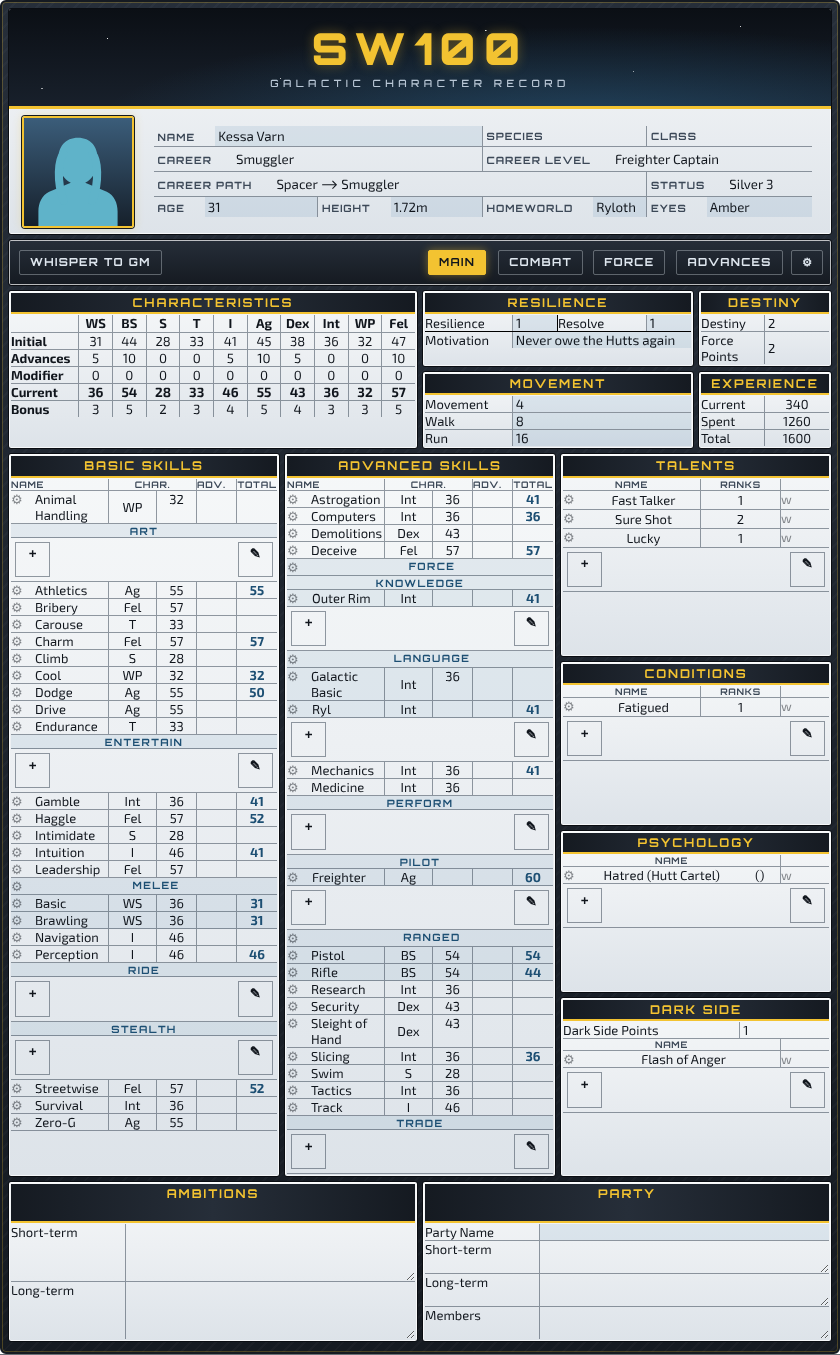
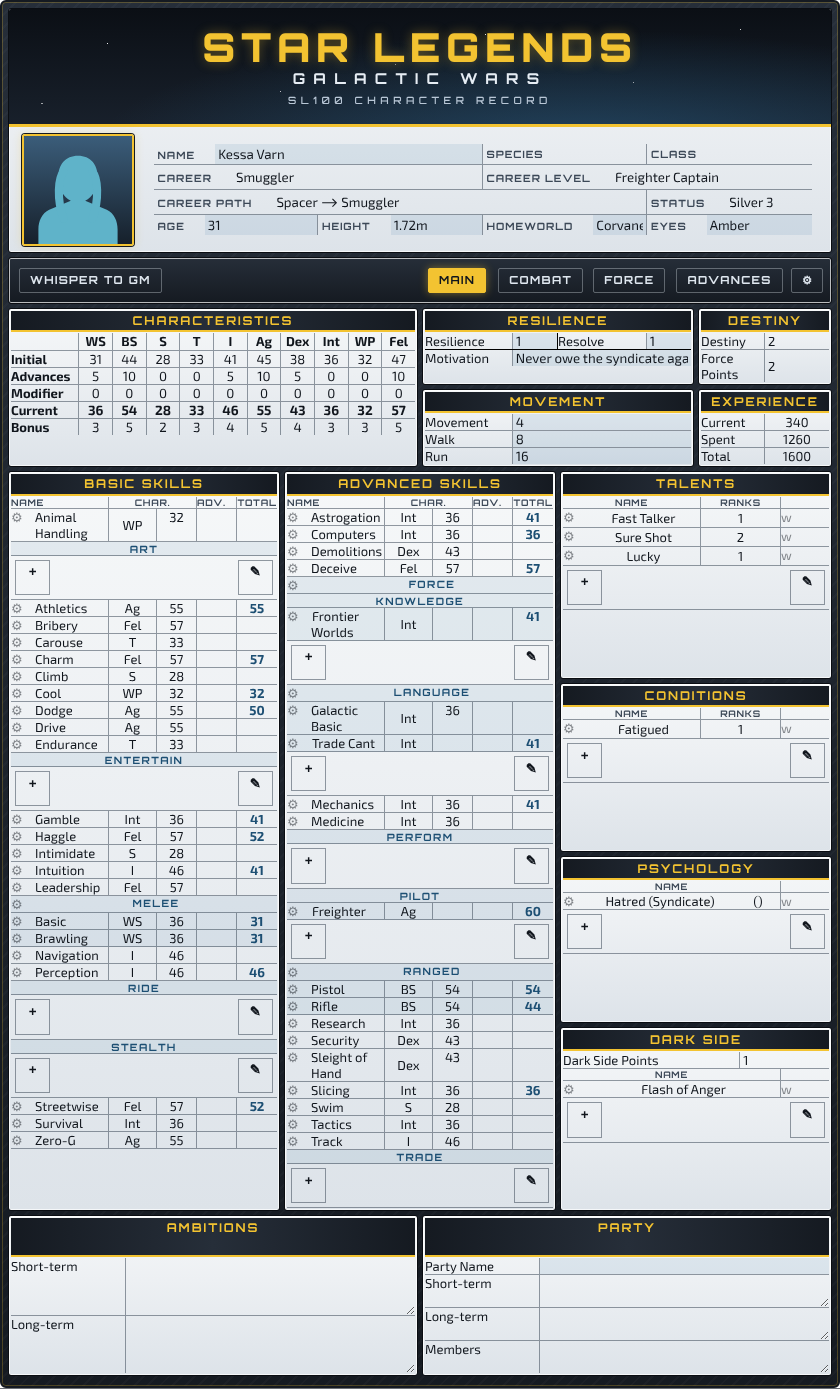
Rebrand to Star Legends - Galactic Wars (SL100)
- Header shows the long-form name: STAR LEGENDS / GALACTIC WARS, with an
  'SL100 Character Record' line. Header height raised to fit.
- Rename build outputs and entry points: sl100.html, sl100.css,
  src/pug/sl100.pug, src/scss/sl100.scss. Update sheet.json, package.json,
  scripts and README to match.
- New $font-family-title variable so the title face can change without
  touching the rest of the theme.
- Remove franchise references from the README, sheet.json and the
  preview sample data.
- Internal sw- class names, the sw roll template and attribute names are
  unchanged, so existing characters keep their data.

Claude-Session: https://claude.ai/code/session_01WgHnt61G6yq3dpjTGP8bZF

Changed region(s): [[0.0, 0.0, 0.9905, 0.9919], [0.9595, 0.9609, 0.9905, 0.9919]]

diff --git a/scripts/preview.js b/scripts/preview.js
@@ -26,10 +26,10 @@ const root = path.join(__dirname, "..");
 const read = (file) => fs.readFileSync(path.join(root, file), "utf8");
 
 const sample = {
-    character_name: "Kessa Varn", species: "Twi'lek", class: "Scoundrel", career: "Smuggler",
+    character_name: "Kessa Varn", species: "Human", class: "Scoundrel", career: "Smuggler",
     career_level: "Freighter Captain", career_path: "Spacer ⟶ Smuggler", status: "Silver 3",
-    age: "31", height: "1.72m", homeworld: "Ryloth", eyes: "Amber",
-    fate: 2, fortune: 2, resilience: 1, resolve: 1, motivation: "Never owe the Hutts again",
+    age: "31", height: "1.72m", homeworld: "Corvane Prime", eyes: "Amber",
+    fate: 2, fortune: 2, resilience: 1, resolve: 1, motivation: "Never owe the syndicate again",
     movement: 4, walk: 8, run: 16, current_xp: 340, spent_xp: 1260, total_xp: 1600,
     wounds: 11, wounds_max: 13, advantage: 2, encumbrance: 6, encumbrance_max: 7,
     credits: 2450, bank: 800, debt: 12000, corruption_points: 1, sin: 0,
@@ -61,7 +61,7 @@ for (const [char, [initial, adv]] of Object.entries(chars)) {
 const rows = {
     talent: [{ talent_name: "Fast Talker", talent_ranks: 1 }, { talent_name: "Sure Shot", talent_ranks: 2 }, { talent_name: "Lucky", talent_ranks: 1 }],
     conditions: [{ condition_name: "Fatigued", condition_ranks: 1 }],
-    psychology: [{ psychology_name: "Hatred (Hutt Cartel)" }],
+    psychology: [{ psychology_name: "Hatred (Syndicate)" }],
     corruption: [{ corruption_name: "Flash of Anger" }],
     trappings: [
         { trappings_name: "Comlink", trappings_amount: 1, trappings_enc: 0 },
@@ -70,18 +70,18 @@ const rows = {
     ],
     armour: [{ armour_name: "Padded Flight Suit", armour_locations_display: "Arms, Body, Legs", armour_points: 1, armour_qualities: "Flexible" }],
     weapons: [
-        { weapon_name: "DL-44 Heavy Blaster Pistol", weapon_group: "Pistol", weapon_target_display: 54, weapon_range: "30", weapon_damage_flat: "+6", weapon_qualities: "Stun, Penetrating" },
+        { weapon_name: "Heavy Blaster Pistol", weapon_group: "Pistol", weapon_target_display: 54, weapon_range: "30", weapon_damage_flat: "+6", weapon_qualities: "Stun, Penetrating" },
         { weapon_name: "Vibroknife", weapon_group: "Vibroweapon", weapon_target_display: 36, weapon_range: "Very Short", weapon_damage_flat: "+3", weapon_qualities: "Fast" },
     ],
     criticals: [{ critical_name: "Blaster Burn", critical_location: "Left Arm", critical_wounds: 3 }],
     spells: [{ spell_name: "Sense Danger", spell_lore: "Universal", spell_display: 37, spell_cn: 3, spell_range: "Self", spell_target: "Self", spell_duration: "1 hour" }],
     careers: [{ career_name: "Smuggler", career_level: "Freighter Captain", career_status: "Silver 3" }],
-    experience: [{ experience_desc: "Escaped the Imperial blockade", experience_amount: 150 }],
+    experience: [{ experience_desc: "Escaped the orbital blockade", experience_amount: 150 }],
     experiencespent: [{ experience_desc: "Ranged (Pistol) +5", experience_amount: 50 }],
-    knowledge: [{ specialisation_name: "Outer Rim", specialisation: 41 }],
+    knowledge: [{ specialisation_name: "Frontier Worlds", specialisation: 41 }],
     pilot: [{ specialisation_name: "Freighter", specialisation: 60 }],
-    language: [{ specialisation_name: "Ryl", specialisation: 41 }],
-    attacks: [{ attack_name: "E-11 Blaster Rifle", attack_attacks: 1, attack_target: 40, attack_range: "100", attack_damage: "+7" }],
+    language: [{ specialisation_name: "Trade Cant", specialisation: 41 }],
+    attacks: [{ attack_name: "Blaster Rifle", attack_attacks: 1, attack_target: 40, attack_range: "100", attack_damage: "+7" }],
     "npc-traits": [{ trait_name: "Armour 3" }],
 };
 
@@ -133,8 +133,8 @@ const renderTemplate = (template, values) => {
 
 const buildPage = (state) => {
     const translation = JSON.parse(read("translation.json"));
-    let html = read("sw100.html");
-    const css = read("sw100.css");
+    let html = read("sl100.html");
+    const css = read("sl100.css");
 
     // Strip sheet workers and roll templates; they are not rendered in the sheet body.
     html = html.replace(/<script type="text\/worker">[\s\S]*?<\/script>/, "");
@@ -253,7 +253,7 @@ const main = async () => {
         const page = await browser.newPage({ viewport: { width: 900, height: 1200 }, deviceScaleFactor: 1 });
         page.on("pageerror", error => console.error(`page error: ${error.message}`));
         // Loaded from a file (not setContent) so local art paths like "art/logo.png" resolve.
-        const pageFile = path.join(os.tmpdir(), `sw100-preview-${process.pid}.html`);
+        const pageFile = path.join(os.tmpdir(), `sl100-preview-${process.pid}.html`);
         fs.writeFileSync(pageFile, buildPage(state));
         await page.goto(pathToFileURL(pageFile).href, { waitUntil: "networkidle" }).catch(() => {});
         fs.unlinkSync(pageFile);

diff --git a/scripts/check.js b/scripts/check.js
@@ -1,4 +1,4 @@
-// Consistency checks for the SW100 sheet. Run after a build: `npm run check`.
+// Consistency checks for the SL100 sheet. Run after a build: `npm run check`.
 //
 // The skill lists live in three places (Pug data, sheetworkers, SCSS); Roll20
 // also needs a translation entry for every data-i18n key or the label renders
@@ -79,7 +79,7 @@ sameSet("specialisations (pug vs scss)", pugSpecialisations, scssList("specialis
 
 // Translations: every data-i18n key used in the HTML (and every key sheet.json
 // names for its user options) needs an entry.
-const html = read("sw100.html");
+const html = read("sl100.html");
 const translation = JSON.parse(read("translation.json"));
 const used = new Set();
 for (const match of html.matchAll(/data-i18n(?:-placeholder|-title)?="([^"]*)"/g)) {
@@ -107,24 +107,24 @@ if (unused.length) warnings.push(`translation.json has ${unused.length} unused k
     }
     const prefixedRepeating = body.match(/class="[^"]*sheet-repeating_/);
     if (prefixedRepeating) errors.push("a repeating_ fieldset class was given the sheet- prefix; Roll20 will not treat it as a repeating section");
-    if (bare.size) errors.push(`sw100.html has classes without the sheet- prefix (run npm run build): ${[...bare].slice(0, 10).join(", ")}`);
+    if (bare.size) errors.push(`sl100.html has classes without the sheet- prefix (run npm run build): ${[...bare].slice(0, 10).join(", ")}`);
 }
 
 // Roll20's CSS sanitizer can discard the whole stylesheet over unusual syntax
 // in url(); keep ';' and '@' out of them (e.g. Google Fonts css2 URLs).
 {
-    const css = read("sw100.css");
+    const css = read("sl100.css");
     for (const match of css.matchAll(/url\(\s*["']?([^"')]*)/g)) {
-        if (/[;@]/.test(match[1])) errors.push(`sw100.css has a url() containing ';' or '@', which Roll20 may reject: ${match[1]}`);
+        if (/[;@]/.test(match[1])) errors.push(`sl100.css has a url() containing ';' or '@', which Roll20 may reject: ${match[1]}`);
     }
     // Modern Sass colour maths emits rgb(12.3%, ...) / hsl(...); stick to hex and rgba(r, g, b, a).
     const modernColour = css.match(/rgba?\([^)]*%[^)]*\)|hsla?\([^)]*\)/);
-    if (modernColour) errors.push(`sw100.css has a percentage/hsl colour Roll20 may reject: ${modernColour[0]} (use a hex token in _abstracts.scss)`);
+    if (modernColour) errors.push(`sl100.css has a percentage/hsl colour Roll20 may reject: ${modernColour[0]} (use a hex token in _abstracts.scss)`);
 }
 
 // The WFRP artwork is Cubicle 7's; none of it should ship with this sheet.
-const css = read("sw100.css");
-for (const [name, text] of [["sw100.css", css], ["sw100.html", html]]) {
+const css = read("sl100.css");
+for (const [name, text] of [["sl100.css", css], ["sl100.html", html]]) {
     const hits = text.match(/files\.d20\.io\/images\/[^"')\s]*/g);
     if (hits) errors.push(`${name} still references Roll20-hosted images: ${[...new Set(hits)].join(", ")}`);
 }

diff --git a/sl100.html b/sl100.html
@@ -24,7 +24,7 @@
   <div class="sheet-sw-pc">
     <input name="attr_setting_button_hide" type="hidden"/>
     <div class="sheet-sw-header sheet-sw-panel">
-      <div class="sheet-sw-header__logo"><span class="sheet-sw-header__logo-title">SW100</span><span class="sheet-sw-header__logo-subtitle" data-i18n="Galactic Character Record">Galactic Character Record</span></div>
+      <div class="sheet-sw-header__logo"><span class="sheet-sw-header__logo-title" data-i18n="Star Legends">Star Legends</span><span class="sheet-sw-header__logo-tagline" data-i18n="Galactic Wars">Galactic Wars</span><span class="sheet-sw-header__logo-subtitle" data-i18n="SL100 Character Record">SL100 Character Record</span></div>
       <div class="sheet-sw-header__body">
         <div class="sheet-sw-header__portrait sheet-page__main"><span class="sheet-sw-header__portrait-empty" data-i18n="Set a portrait in Bio &amp; Info">Set a portrait in Bio &amp; Info</span><img class="sheet-sw-header__portrait-img" name="attr_character_avatar"/></div>
         <div class="sheet-sw-header__info">

diff --git a/sl100.css b/sl100.css
@@ -265,7 +265,7 @@ input[type=number]::-webkit-outer-spin-button, input[type=number]::-webkit-inner
 }
 
 .sheet-sw-header__logo {
-  height: 100px;
+  height: 118px;
 }
 .sheet-sw-header__body {
   display: flex;
@@ -1255,14 +1255,25 @@ button.sheet-pictos[type=action]:hover {
 .sheet-sw-header__logo-title {
   color: #f3c331;
   font-family: "Orbitron", "Exo 2", Arial, sans-serif;
-  font-size: 44px;
+  font-size: 40px;
   font-weight: 900;
-  letter-spacing: 0.18em;
+  letter-spacing: 0.14em;
   line-height: 1;
+  text-transform: uppercase;
   text-shadow: 0 0 12px rgba(243, 195, 49, 0.35);
 }
+.sheet-sw-header__logo-tagline {
+  margin-top: 4px;
+  color: #e6edf4;
+  font-family: "Orbitron", "Exo 2", Arial, sans-serif;
+  font-size: 15px;
+  font-weight: 700;
+  letter-spacing: 0.55em;
+  line-height: 1;
+  text-transform: uppercase;
+}
 .sheet-sw-header__logo-subtitle {
-  margin-top: 6px;
+  margin-top: 8px;
   color: #b9c7d6;
   font-family: "Orbitron", "Exo 2", Arial, sans-serif;
   font-size: 10px;

diff --git a/src/scss/styling/_header.scss b/src/scss/styling/_header.scss
@@ -15,16 +15,30 @@
     &__logo-title {
         color: $sw-accent;
 
-        font-family: $font-family-display;
-        font-size: 44px;
+        font-family: $font-family-title;
+        font-size: 40px;
         font-weight: 900;
-        letter-spacing: .18em;
+        letter-spacing: .14em;
         line-height: 1;
+        text-transform: uppercase;
         text-shadow: 0 0 12px rgba($sw-accent, .35);
     }
 
+    &__logo-tagline {
+        margin-top: 4px;
+
+        color: #e6edf4;
+
+        font-family: $font-family-title;
+        font-size: 15px;
+        font-weight: 700;
+        letter-spacing: .55em;
+        line-height: 1;
+        text-transform: uppercase;
+    }
+
     &__logo-subtitle {
-        margin-top: 6px;
+        margin-top: 8px;
 
         color: #b9c7d6;
 

diff --git a/scripts/postbuild.js b/scripts/postbuild.js
@@ -1,4 +1,4 @@
-// Post-processes the compiled sw100.html so it works under either Roll20
+// Post-processes the compiled sl100.html so it works under either Roll20
 // sanitizer:
 //
 // 1. Class prefixes. The CSS targets `.sheet-*` classes. Roll20's legacy
@@ -19,7 +19,7 @@ const fs = require("fs");
 const path = require("path");
 
 const root = path.join(__dirname, "..");
-const htmlPath = path.join(root, "sw100.html");
+const htmlPath = path.join(root, "sl100.html");
 const translation = JSON.parse(fs.readFileSync(path.join(root, "translation.json"), "utf8"));
 
 const escapeHtml = (text) => text.replace(/&/g, "&amp;").replace(/</g, "&lt;").replace(/>/g, "&gt;");

diff --git a/src/scss/_fonts.scss b/src/scss/_fonts.scss
@@ -9,6 +9,9 @@ $font-alt-medium: 12px;
 $font-family-general: "Exo 2", "Segoe UI", Arial, sans-serif;
 $font-family-alt: "Exo 2", "Segoe UI", Arial, sans-serif;
 $font-family-display: "Orbitron", "Exo 2", Arial, sans-serif;
+// Game title in the header. Swap this (and the Google Fonts import in
+// sl100.scss) to change the title face without touching the rest.
+$font-family-title: "Orbitron", "Exo 2", Arial, sans-serif;
 $font-family-pictos: "Pictos";
 
 .sheet-sw-wrapper .sheet-sw-pc,

diff --git a/src/scss/_art.scss b/src/scss/_art.scss
@@ -6,7 +6,7 @@
 // library or a raw GitHub link). A relative path such as "art/logo.png" only
 // works in the local preview (scripts/preview.js). See docs/ARTWORK.md.
 
-// Title image shown in place of the "SW100" text. Transparent PNG, ~600x150.
+// Title image shown in place of the "Star Legends / Galactic Wars" text. Transparent PNG, ~600x150.
 $sw-art-logo: null;
 
 // Backdrop behind the title, replacing the CSS starfield. ~840x110.

diff --git a/src/scss/_abstracts.scss b/src/scss/_abstracts.scss
@@ -6,7 +6,7 @@ $margin-large: 1rem;
 // Colours are plain hex on purpose: Sass colour functions (lighten etc.)
 // emit percentage rgb()/hsl() values that Roll20's CSS sanitizer may reject.
 //
-// SW100 palette: a gunmetal console frame, pale datapad panels, hologram-blue
+// SL100 palette: a gunmetal console frame, pale datapad panels, hologram-blue
 // inputs and a signal-yellow accent.
 $sw-frame: #151a21;
 $sw-frame-light: #262e39;

diff --git a/src/scss/styling/_artwork.scss b/src/scss/styling/_artwork.scss
@@ -18,6 +18,7 @@
 
 @if $sw-art-logo {
     .sheet-sw-header__logo-title,
+    .sheet-sw-header__logo-tagline,
     .sheet-sw-header__logo-subtitle {
         visibility: hidden;
     }

diff --git a/src/scss/layout/pc/_header.scss b/src/scss/layout/pc/_header.scss
@@ -1,7 +1,7 @@
 .sheet-sw-header {
 
     &__logo {
-        height: 100px;
+        height: 118px;
     }
 
     &__body {
